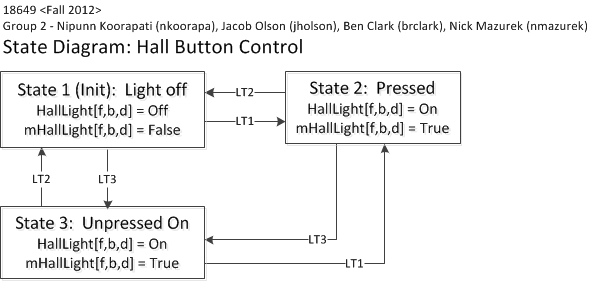
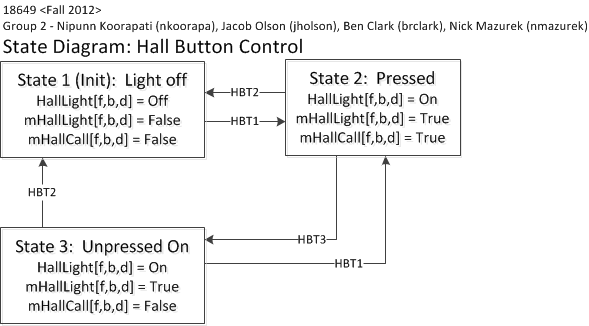
Updated requirements/diagram for hallButtonControl
Added mHallCall network message.
Added requirement for sending mHallCall messages
Changed LT to HBT (doh)

Changed region(s): [[0.0, 0.0, 1.0, 0.9964], [0.3667, 0.911, 0.6418, 0.968], [0.1528, 0.6263, 0.2139, 0.6548]]

diff --git a/portfolio/reqs/requirements2.html b/portfolio/reqs/requirements2.html
@@ -1947,6 +1947,8 @@ None
   <li>8.3&nbsp; If HallCall[f,b,d] is Pressed, Active shall be set to True</li>
   <li>8.4&nbsp; If HallCall[f,b,d] is Idle and CurrentFloor is equal to
       mDesiredFloor.f, Active shall be set to False</li>
+  <li>8.5&nbsp; If HallCall[f,b,d] is <b>v</b>
+      mHallCall[f,b,d] shall be set to <b>v</b></li>
 </ul>
 
 <h3> State Chart: </h3>
@@ -1966,18 +1968,108 @@ cellspacing="2">
       <td>Trigger Conditions</td>
     </tr>
     <tr>
-      <td>LT 1</td>
+      <td>HBT 1</td>
       <td>HallCall[<b>f</b>, <b>b</b>, <b>d</b>] == Pressed</td>
     </tr>
     <tr>
-      <td>LT 2</td>
+      <td>HBT 2</td>
       <td>HallCall[<b>f</b>, <b>b</b>, <b>d</b>] == Idle &amp;&amp;
           mDesiredFloor.f == CurrentFloor</td>
     </tr>
     <tr>
-      <td>LT 3</td>
+      <td>HBT 3</td>
       <td>HallCall[<b>f</b>, <b>b</b>, <b>d</b>] == Idle &amp;&amp;
           mDesiredFloor.f != Current Floor</td>
+    </tr>
+  </tbody>
+</table>
+<h3>Requirements to Statechart Traceability</h3>
+<table style="text-align: left; width: 600px;" border="1"
+       cellpadding="2" cellspacing="2">
+  <tbody>
+    <tr>
+      <td><br /></td>
+      <td colspan="8">Requirements</td>
+    </tr>
+    <tr>
+      <td><b>State</b></td>
+      <td>8.1.1</td>
+      <td>8.1.2</td>
+      <td>8.2.1</td>
+      <td>8.2.2</td>
+      <td>8.3</td>
+      <td>8.4</td>
+      <td>8.5</td>
+    </tr>
+    <tr>
+      <td>state 1: Light off</td>
+      <td><br/></td>
+      <td><br/></td>
+      <td>X</td>
+      <td>X</td>
+      <td><br /></td>
+      <td><br /></td>
+      <td>X</td>
+    </tr>
+    <tr>    
+      <td>state 2: Pressed</td>
+      <td>X</td>
+      <td>X</td>
+      <td><br/></td>
+      <td><br/></td>
+      <td>X</td>
+      <td><br/></td>
+      <td>X</td>
+    </tr>
+    <tr>    
+      <td>state 3: Unpressed On</td>
+      <td>X</td>
+      <td>X</td>
+      <td><br/></td>
+      <td><br/></td>
+      <td><br/></td>
+      <td><br/></td>
+      <td>X</td>
+    </tr>
+    <tr>    
+      <td><b>Transitions</b></td>
+      <td><br /></td>
+      <td><br /></td>
+      <td><br /></td>
+      <td><br /></td>
+      <td><br /></td>
+      <td><br /></td>
+      <td><br /></td>
+    </tr>
+    <tr>    
+      <td>LT 1</td>
+      <td><br/></td>
+      <td><br/></td>
+      <td><br /></td>
+      <td><br /></td>
+      <td>X</td>
+      <td><br /></td>
+      <td><br /></td>
+    </tr>
+    <tr>    
+      <td>LT 2</td>
+      <td><br /></td>
+      <td><br /></td>
+      <td><br/></td>
+      <td><br/></td>
+      <td><br /></td>
+      <td>X</td>
+      <td><br /></td>
+    </tr>
+    <tr>    
+      <td>LT 3</td>
+      <td><br /></td>
+      <td><br /></td>
+      <td><br /></td>
+      <td><br /></td>
+      <td>X</td>
+      <td>X</td>
+      <td><br /></td>
     </tr>
   </tbody>
 </table>
